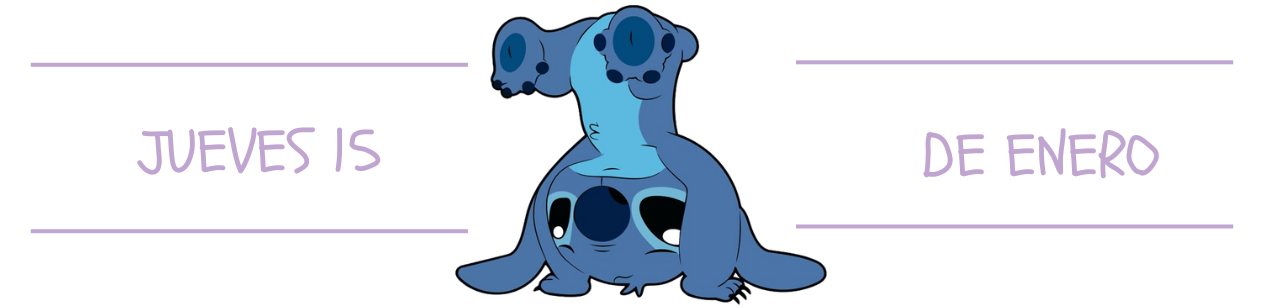
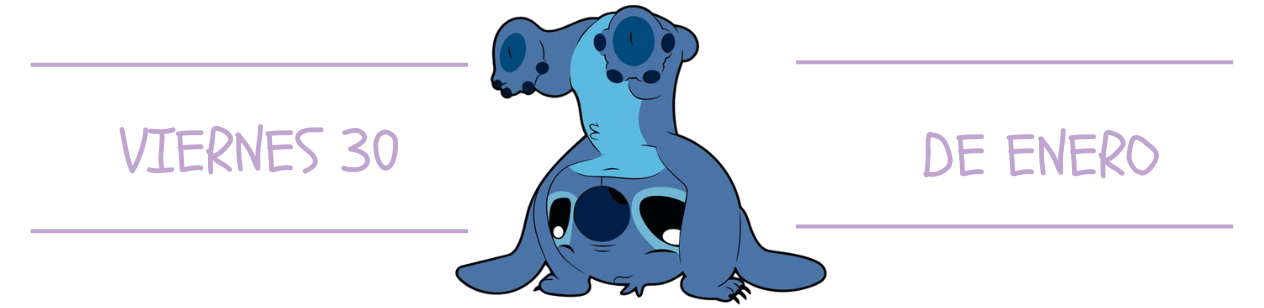
AA
AA

Changed region(s): [[0.0926, 0.4091, 0.3394, 0.5844]]

diff --git a/index.html b/index.html
@@ -41,7 +41,7 @@
    
     <div class="segundo"> 
       <p data-aos="fade-up"> TE ESPERO PARA FESTEJAR <br> MIS SIETE AÑITOS <br><br>
-        📅 15 DE ENERO <br>⏰ DE 17 A 20 HS <br> 📍QUINTA LAS MELLIZAS<br> <br>  HACE CLICK PARA SABER COMO LLEGAR</p>
+        📅 30 DE ENERO <br>⏰ DE 17 A 20 HS <br> 📍QUINTA LAS MELLIZAS<br> <br>  HACE CLICK PARA SABER COMO LLEGAR</p>
       <a  data-aos="fade-up" class="boton2" target="_blank"  href="https://www.google.com/maps/dir//Quinta+las+mellizas,+Lencina+387,+X5900+Villa+Mar%C3%ADa,+C%C3%B3rdoba/@-32.3874241,-63.2355596,732m/data=!3m1!1e3!4m17!1m7!3m6!1s0x95cc43000a0b1ddd:0xa9050aa4c5bd9241!2sQuinta+las+mellizas!8m2!3d-32.3874241!4d-63.2355596!16s%2Fg%2F11vyljmtct!4m8!1m0!1m5!1m1!1s0x95cc43000a0b1ddd:0xa9050aa4c5bd9241!2m2!1d-63.2355596!2d-32.3874241!3e0?entry=ttu&g_ep=EgoyMDI1MTIwOS4wIKXMDSoASAFQAw%3D%3D">CÓMO LLEGAR</a>    
   </div>
   <div class="galeria2">
@@ -78,7 +78,7 @@
           </div>
           <div>
             <h2 data-aos="fade-up" >EMMA</h2>
-            <H3 data-aos="fade-up">15.01.26</H3>
+            <H3 data-aos="fade-up">30.01.26</H3>
           </div>
           <div>
             <img class="espejo" src="./figuras/icon-1.png" alt="">

diff --git a/countdown.js b/countdown.js
@@ -30,4 +30,4 @@ const countdown = (deadline, elem, finalMessage ) => {
 };
 
 
-countdown('jan 15 2026 10:43:51 GMT-0300', 'clock', 'llego el dia')
+countdown('jan 30 2026 10:43:51 GMT-0300', 'clock', 'llego el dia')
